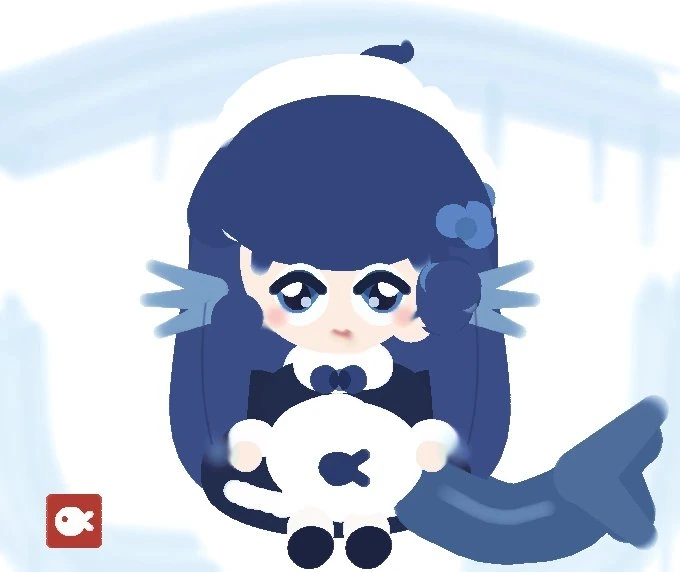
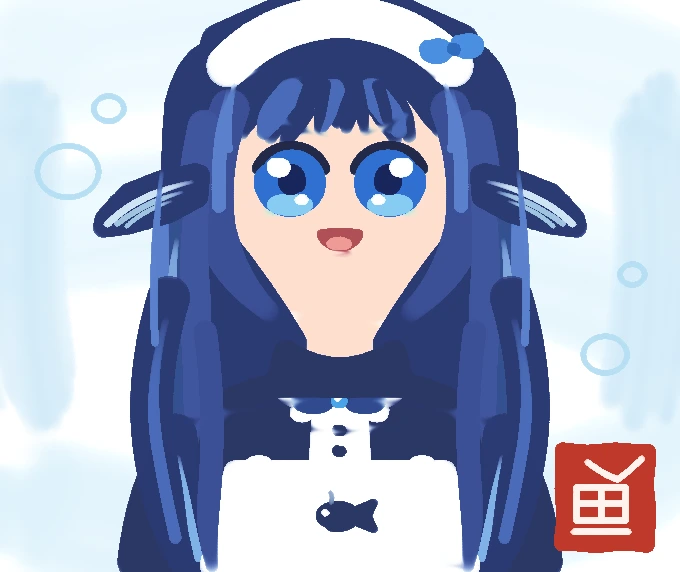
Lead the README with the new self-portrait, not the jellyfish
The self-portrait clip is 4x speed at 10fps with 128 colours and a one-second hold on the signed last frame: 680x572, 104 frames, 10.4s, 841 KB (the jellyfish it replaces was 930 KB). The old first-version portrait is replaced by this one in the gallery; the jellyfish clip and the old portrait stay in git history if they are ever wanted back.

diff --git a/README.md b/README.md
@@ -1,13 +1,13 @@
 # 🐟 肥鱼画室 · Chubby fish studio
 
 <p align="center">
-  <img src="docs/gallery/jellyfish.gif" alt="三只水母：AI 在这张画布上一笔一笔画出来，3 倍速" width="620">
+  <img src="docs/gallery/portrait-process.gif" alt="自画像：AI 在这张画布上一笔一笔画出来，4 倍速" width="620">
 </p>
 <p align="center">
-  <sub><b>上面这段不是生成的图</b>，是 <code>canvas_record</code> 录下来的作画过程——三只水母、水下背景和水草，一笔一笔落笔，录完抽掉 2/3 的帧，3 倍速，最后一帧定格 1 秒。</sub>
+  <sub><b>上面这段不是生成的图</b>，是 <code>canvas_record</code> 录下来的作画过程——蓝发鲸尾小女仆，从背景水洗一路画到右下角盖章，抽掉 3/4 的帧、4 倍速，最后一帧定格 1 秒。</sub>
 </p>
 
-*大肥鱼自画像。约 180 笔，画在这个画布上：深蓝到浅蓝的鲸尾小女仆，白蕾丝头巾、蓝蝴蝶结、鲸鱼鳍耳，白围裙上一枚小鲸鱼徽记。左下角是朱红印章。*
+*大肥鱼自画像（第二版）。画在这个画布上：深蓝到浅蓝的鲸尾小女仆，白蕾丝头饰配蓝蝴蝶结、鲸鱼鳍耳、水手领加宝石领结、白围裙上一枚小鲸鱼徽记，右下角一方朱红印章。*
 
 <table>
 <tr>
@@ -33,11 +33,11 @@
 </tr>
 </table>
 
-上面这些——开头那段水母 GIF 和这四张画——都是大肥鱼在画布里逐笔画的。右上那张是当时的对话截图——写"正在运行命令"的时候，就是 `canvas_draw` 在落笔。
+开头那段 GIF 是这幅自画像的作画过程；下面这四张画——自画像、竹林、风景、小花——也都是在同一张画布上逐笔画的。自画像旁边那张是当时的对话截图：写"正在运行命令"的时候，就是 `canvas_draw` 在落笔。
 
 **右侧栏里一张你和 AI 共用的画布**：真实的颜料混色、真实的湿画扩散。你画，它看得见；它画，你随时撤销。
 
-MIT · v0.9.2 · [DeepSeek Harness](https://github.com/deepseek-ai/deepseek-harness) 插件
+MIT · v0.9.3 · [DeepSeek Harness](https://github.com/deepseek-ai/deepseek-harness) 插件
 
 > 用下来有问题、想许愿新功能，或者想看看别人画了什么：[在 Discussions 的插件帖里聊](https://github.com/deepseek-ai/deepseek-harness/discussions/13604)。
 
@@ -334,7 +334,7 @@ A DeepSeek Harness plugin that gives the assistant you are talking to (known as
   a fraction and is clamped, knobs outside their range are pulled to the nearest bound, and
   the reply lists every correction — the call paints instead of failing, and says what it
   had to change.
-- **The agent paints on your canvas, itself.** The paintings above, and the jellyfish clip
+- **The agent paints on your canvas, itself.** The paintings above, and the portrait clip
   at the top, were made stroke by stroke through `canvas_draw` and `canvas_record`;
   `canvas_look` shows it the picture and `canvas_sample` reads exact pixels. Every agent
   stroke lands in your undo stack.
